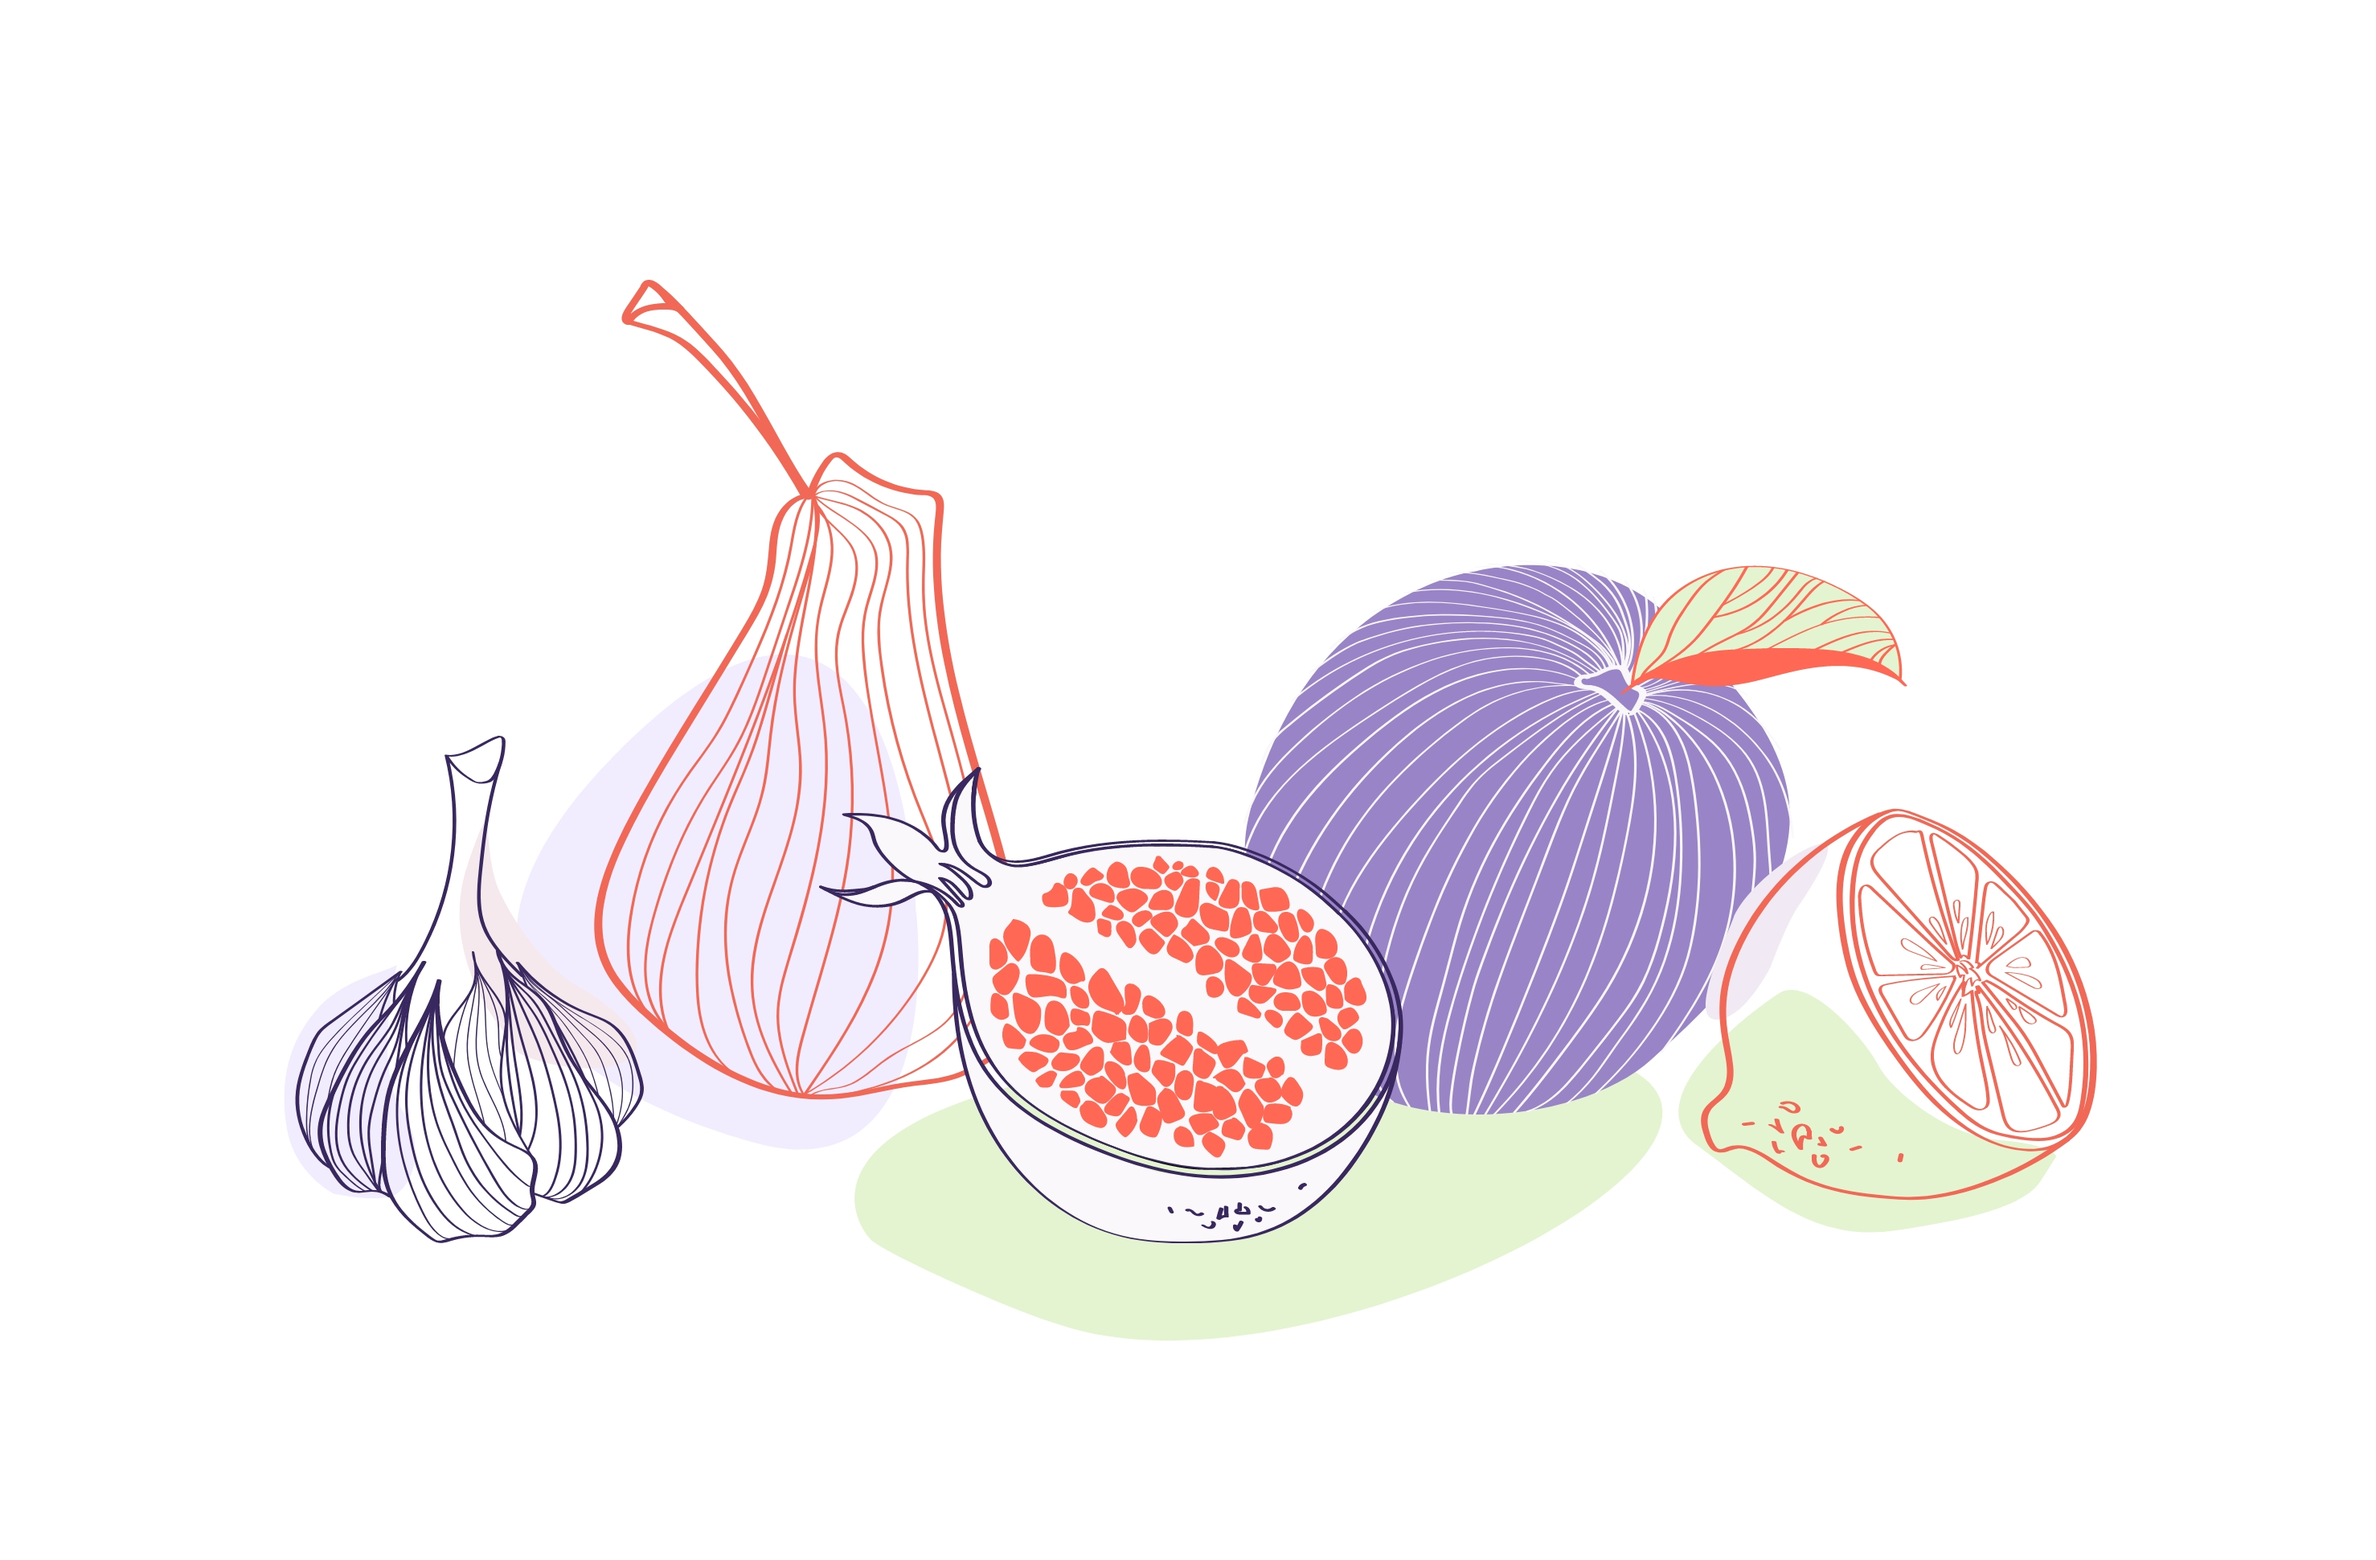
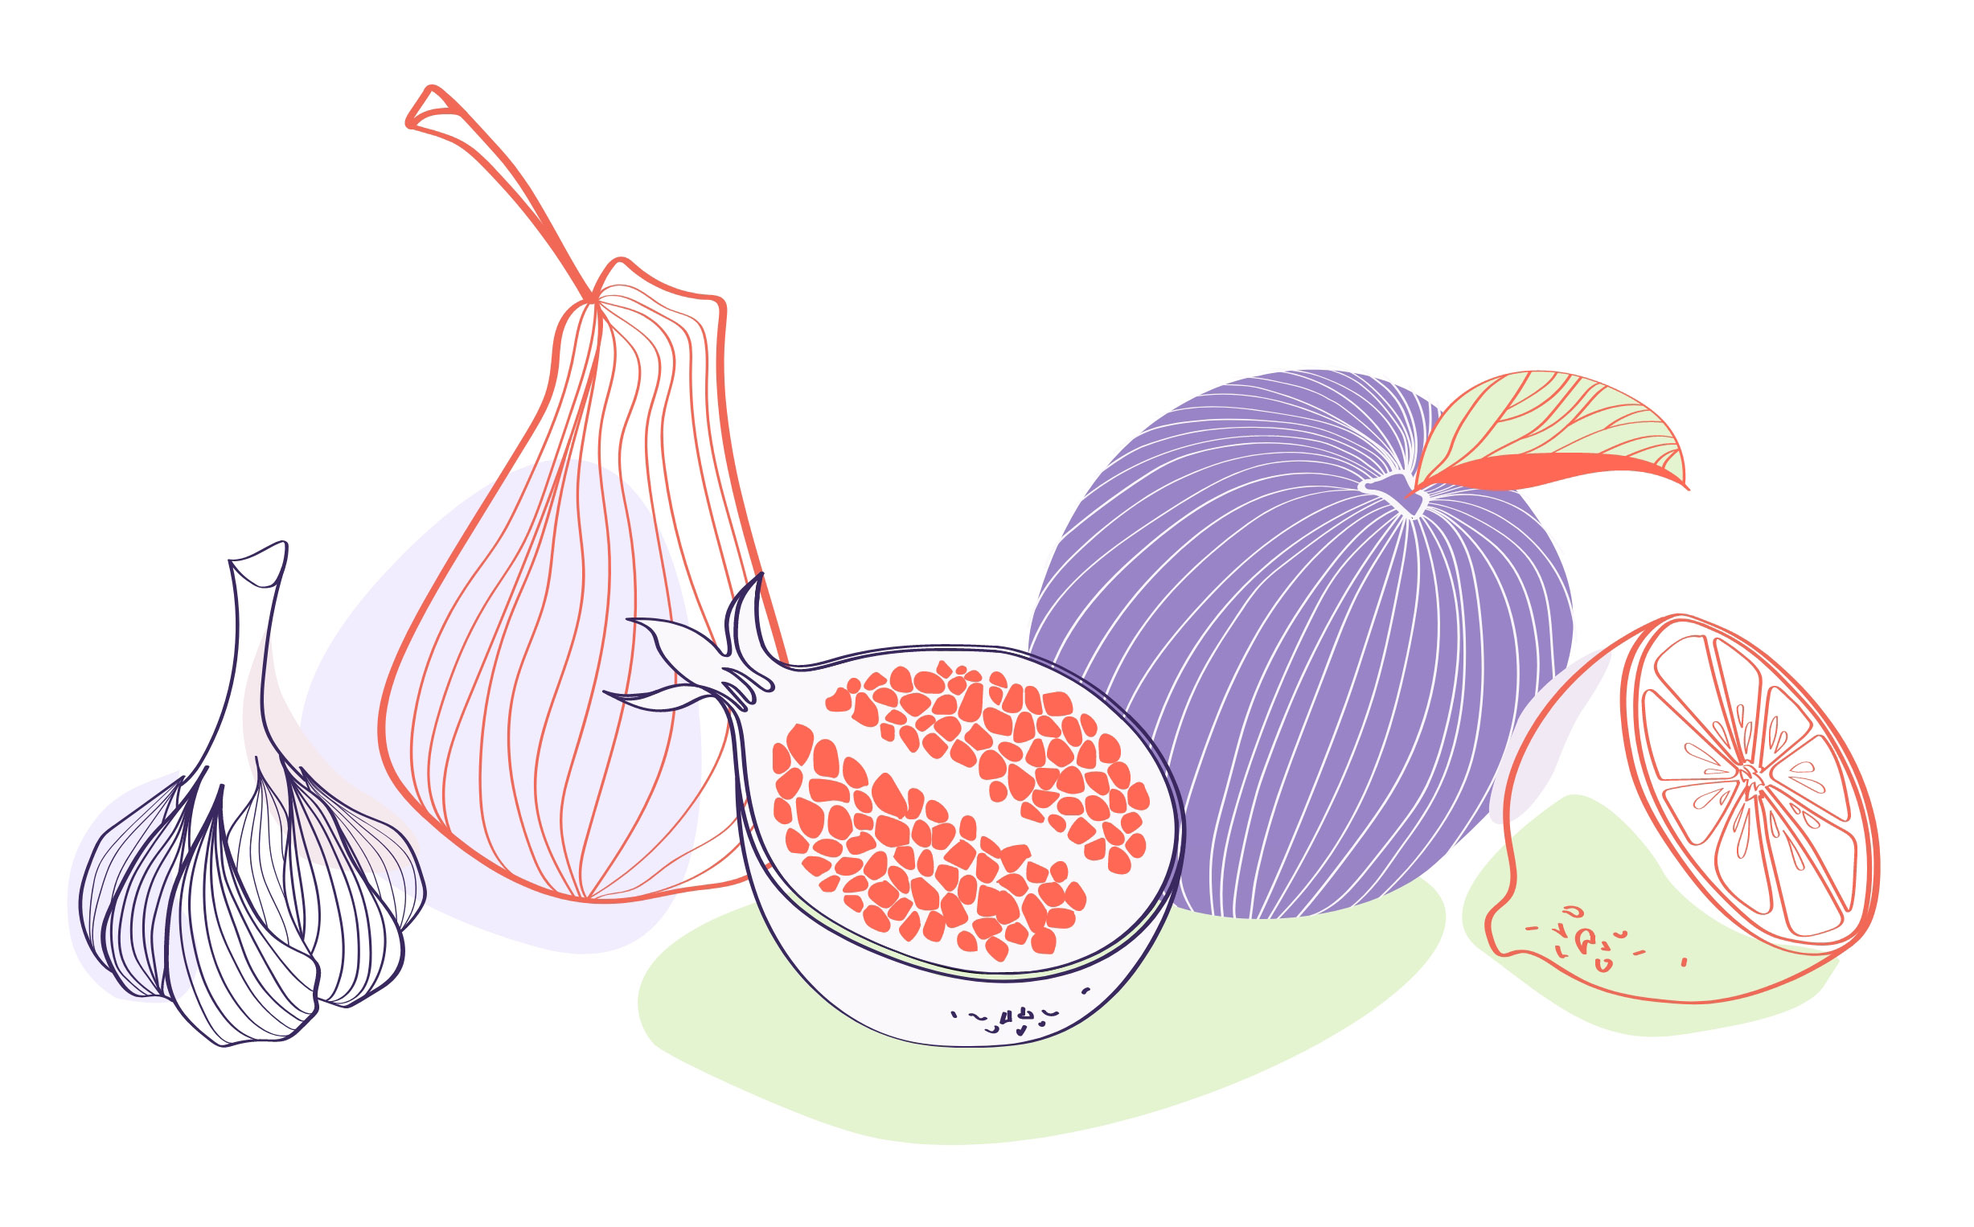
update illustrations

Changed region(s): [[0.031, 0.1232, 0.9597, 0.9548], [0.1857, 0.0616, 0.2477, 0.1232], [0.1238, 0.4312, 0.1548, 0.4928]]

diff --git a/index.html b/index.html
@@ -120,30 +120,23 @@
           </div>
         </div>
         <div class="mix col-12 col-md-10 offset-md-1 illustration">
-          <div class="card-columns gallery gallery-no-hover" itemscope="" itemtype="http://schema.org/ImageGallery">
+          <div class="card-columns two-column gallery gallery-no-hover" itemscope="" itemtype="http://schema.org/ImageGallery">
            
-            <div class="card">
-              <figure itemprop="associatedMedia" data-index="0" itemscope="" itemtype="http://schema.org/ImageObject">
-                <a href="img/portfolio/illiustrations/group-2.jpg" data-size="1914x1412" itemprop="contentUrl">
-                  <img class="card-img img-fluid clip-image-thumbnail" src="img/portfolio/illiustrations/group-2.jpg"
-                    itemprop="thumbnail" alt="Image description">
-                </a>
-              </figure>
-              <!-- <img class="card-img img-fluid" src="img/portfolio/illiustrations/jungle.jpg" alt="Card image"> -->
-            </div>
+            
           
             <div class="card">
-              <figure itemprop="associatedMedia" data-index="1" itemscope="" itemtype="http://schema.org/ImageObject">
-                <a href="img/portfolio/illiustrations/group-3.jpg" data-size="2956x1940" itemprop="contentUrl">
-                  <img class="card-img img-fluid clip-image-thumbnail" src="img/portfolio/illiustrations/group-3.jpg"
+              <figure itemprop="associatedMedia" data-index="0" itemscope="" itemtype="http://schema.org/ImageObject">
+                <a href="img/portfolio/illiustrations/illustration_1.jpg" data-size="1680x1295" itemprop="contentUrl">
+                  <img class="card-img img-fluid clip-image-thumbnail" src="img/portfolio/illiustrations/illustration_1.jpg"
                     itemprop="thumbnail" alt="Image description">
                 </a>
               </figure>
-              <!-- <img class="card-img img-fluid" src="img/portfolio/illiustrations/jungle.jpg" alt="Card image"> -->
+              <!-- <img class="card-img img-fluid" src="img/portfolio/trebo/Group 326.svg" alt="Card image"> -->
             </div>
 
+
             <div class="card">
-              <figure itemprop="associatedMedia" data-index="2" itemscope="" itemtype="http://schema.org/ImageObject">
+              <figure itemprop="associatedMedia" data-index="1" itemscope="" itemtype="http://schema.org/ImageObject">
                 <a href="img/portfolio/illiustrations/iliustracijos knygoj2.jpg" data-size="4847x3534" itemprop="contentUrl">
                   <img class="card-img img-fluid clip-image-thumbnail" src="img/portfolio/illiustrations/iliustracijos knygoj2.jpg"
                     itemprop="thumbnail" alt="Image description">
@@ -151,51 +144,7 @@
               </figure>
             </div>
             <div class="card">
-              <figure itemprop="associatedMedia" data-index="3" itemscope="" itemtype="http://schema.org/ImageObject">
-                <a href="img/portfolio/illiustrations/IMG_0279.JPG" data-size="937x1248" itemprop="contentUrl">
-                  <img class="card-img img-fluid clip-image-thumbnail" src="img/portfolio/illiustrations/IMG_0279.JPG"
-                    itemprop="thumbnail" alt="Image description">
-                </a>
-              </figure>
-            </div>
-            <div class="card">
-              <figure itemprop="associatedMedia" data-index="4" itemscope="" itemtype="http://schema.org/ImageObject">
-                <a href="img/portfolio/illiustrations/jungle.jpg" data-size="1126x1126" itemprop="contentUrl">
-                  <img class="card-img img-fluid clip-image-thumbnail" src="img/portfolio/illiustrations/jungle.jpg"
-                    itemprop="thumbnail" alt="Image description">
-                </a>
-              </figure>
-              <!-- <img class="card-img img-fluid" src="img/portfolio/illiustrations/jungle.jpg" alt="Card image"> -->
-            </div>
-            <div class="card">
-              <figure itemprop="associatedMedia" data-index="5" itemscope="" itemtype="http://schema.org/ImageObject">
-                <a href="img/portfolio/illiustrations/leaves.jpg" data-size="2480x2480" itemprop="contentUrl">
-                  <img class="card-img img-fluid clip-image-thumbnail" src="img/portfolio/illiustrations/leaves.jpg"
-                    itemprop="thumbnail" alt="Image description">
-                </a>
-              </figure>
-              <!-- <img class="card-img img-fluid" src="img/portfolio/illiustrations/leaves.jpg" alt="Card image"> -->
-            </div>
-            <div class="card">
-              <figure itemprop="associatedMedia" data-index="6" itemscope="" itemtype="http://schema.org/ImageObject">
-                <a href="img/portfolio/illiustrations/beachday.jpg" data-size="1380x955" itemprop="contentUrl">
-                  <img class="card-img img-fluid clip-image-thumbnail" src="img/portfolio/illiustrations/beachday.jpg"
-                    itemprop="thumbnail" alt="Image description">
-                </a>
-              </figure>
-              <!-- <img class="card-img img-fluid" src="img/portfolio/illiustrations/beachday.jpg" alt="Card image"> -->
-            </div>
-            <div class="card">
-              <figure itemprop="associatedMedia" data-index="7" itemscope="" itemtype="http://schema.org/ImageObject">
-                <a href="img/portfolio/illiustrations/Group-5.jpg" data-size="2190x1297" itemprop="contentUrl">
-                  <img class="card-img img-fluid clip-image-thumbnail" src="img/portfolio/illiustrations/Group-5.jpg"
-                    itemprop="thumbnail" alt="Image description">
-                </a>
-              </figure>
-              <!-- <img class="card-img img-fluid" src="img/portfolio/illiustrations/jungle.jpg" alt="Card image"> -->
-            </div>
-            <div class="card">
-              <figure itemprop="associatedMedia" data-index="8" itemscope="" itemtype="http://schema.org/ImageObject">
+              <figure itemprop="associatedMedia" data-index="2" itemscope="" itemtype="http://schema.org/ImageObject">
                 <a href="img/portfolio/illiustrations/IMG_0081.jpg" data-size="1772x1949" itemprop="contentUrl">
                   <img class="card-img img-fluid clip-image-thumbnail" src="img/portfolio/illiustrations/IMG_0081.jpg"
                     itemprop="thumbnail" alt="Image description">
@@ -204,16 +153,83 @@
               <!-- <img class="card-img img-fluid" src="img/portfolio/illiustrations/IMG_0081.jpg" alt="Card image"> -->
             </div>
             <div class="card">
-              <figure itemprop="associatedMedia" data-index="9" itemscope="" itemtype="http://schema.org/ImageObject">
-                <a href="img/portfolio/illiustrations/illustration_1.jpg" data-size="1680x1295" itemprop="contentUrl">
-                  <img class="card-img img-fluid clip-image-thumbnail" src="img/portfolio/illiustrations/illustration_1.jpg"
+              <figure itemprop="associatedMedia" data-index="3" itemscope="" itemtype="http://schema.org/ImageObject">
+                <a href="img/portfolio/illiustrations/butterfly.jpg" data-size="3222x3222" itemprop="contentUrl">
+                  <img class="card-img img-fluid clip-image-thumbnail" src="img/portfolio/illiustrations/butterfly.jpg"
                     itemprop="thumbnail" alt="Image description">
                 </a>
               </figure>
-              <!-- <img class="card-img img-fluid" src="img/portfolio/trebo/Group 326.svg" alt="Card image"> -->
+              <!-- <img class="card-img img-fluid" src="img/portfolio/illiustrations/butterfly.jpg" alt="Card image"> -->
             </div>
             <div class="card">
+              <figure itemprop="associatedMedia" data-index="4" itemscope="" itemtype="http://schema.org/ImageObject">
+                <a href="img/portfolio/illiustrations/IMG_0279.JPG" data-size="937x1248" itemprop="contentUrl">
+                  <img class="card-img img-fluid clip-image-thumbnail" src="img/portfolio/illiustrations/IMG_0279.JPG"
+                    itemprop="thumbnail" alt="Image description">
+                </a>
+              </figure>
+            </div>
+            <div class="card">
+              <figure itemprop="associatedMedia" data-index="5" itemscope="" itemtype="http://schema.org/ImageObject">
+                <a href="img/portfolio/illiustrations/jungle.jpg" data-size="1126x1126" itemprop="contentUrl">
+                  <img class="card-img img-fluid clip-image-thumbnail" src="img/portfolio/illiustrations/jungle.jpg"
+                    itemprop="thumbnail" alt="Image description">
+                </a>
+              </figure>
+              <!-- <img class="card-img img-fluid" src="img/portfolio/illiustrations/jungle.jpg" alt="Card image"> -->
+            </div>
+            <div class="card">
+              <figure itemprop="associatedMedia" data-index="6" itemscope="" itemtype="http://schema.org/ImageObject">
+                <a href="img/portfolio/illiustrations/group-3.jpg" data-size="2455x1526" itemprop="contentUrl">
+                  <img class="card-img img-fluid clip-image-thumbnail" src="img/portfolio/illiustrations/group-3.jpg"
+                    itemprop="thumbnail" alt="Image description">
+                </a>
+              </figure>
+              <!-- <img class="card-img img-fluid" src="img/portfolio/illiustrations/jungle.jpg" alt="Card image"> -->
+            </div>
+            <div class="card">
+              <figure itemprop="associatedMedia" data-index="7" itemscope="" itemtype="http://schema.org/ImageObject">
+                <a href="img/portfolio/illiustrations/leaves.jpg" data-size="2480x2480" itemprop="contentUrl">
+                  <img class="card-img img-fluid clip-image-thumbnail" src="img/portfolio/illiustrations/leaves.jpg"
+                    itemprop="thumbnail" alt="Image description">
+                </a>
+              </figure>
+              <!-- <img class="card-img img-fluid" src="img/portfolio/illiustrations/leaves.jpg" alt="Card image"> -->
+            </div>
+            <div class="card">
+              <figure itemprop="associatedMedia" data-index="8" itemscope="" itemtype="http://schema.org/ImageObject">
+                <a href="img/portfolio/illiustrations/group-2.jpg" data-size="1914x1412" itemprop="contentUrl">
+                  <img class="card-img img-fluid clip-image-thumbnail" src="img/portfolio/illiustrations/group-2.jpg"
+                    itemprop="thumbnail" alt="Image description">
+                </a>
+              </figure>
+              <!-- <img class="card-img img-fluid" src="img/portfolio/illiustrations/jungle.jpg" alt="Card image"> -->
+            </div>
+            <div class="card">
+              <figure itemprop="associatedMedia" data-index="9" itemscope="" itemtype="http://schema.org/ImageObject">
+                <a href="img/portfolio/illiustrations/beachday.jpg" data-size="1380x955" itemprop="contentUrl">
+                  <img class="card-img img-fluid clip-image-thumbnail" src="img/portfolio/illiustrations/beachday.jpg"
+                    itemprop="thumbnail" alt="Image description">
+                </a>
+              </figure>
+              <!-- <img class="card-img img-fluid" src="img/portfolio/illiustrations/beachday.jpg" alt="Card image"> -->
+            </div>
+          
+            
+           
+            <div class="card">
               <figure itemprop="associatedMedia" data-index="10" itemscope="" itemtype="http://schema.org/ImageObject">
+                <a href="img/portfolio/illiustrations/black2.jpg" data-size="1000x1414" itemprop="contentUrl">
+                  <img class="card-img img-fluid clip-image-thumbnail" src="img/portfolio/illiustrations/black2.jpg"
+                    itemprop="thumbnail" alt="Image description">
+                </a>
+              </figure>
+              <!-- <img class="card-img img-fluid" src="img/portfolio/illiustrations/black2.jpg" alt="Card image"> -->
+            </div>
+
+
+            <div class="card">
+              <figure itemprop="associatedMedia" data-index="11" itemscope="" itemtype="http://schema.org/ImageObject">
                 <a href="img/portfolio/illiustrations/Illustration_2.jpg" data-size="2097x871"
                   itemprop="contentUrl">
                   <img class="card-img img-fluid clip-image-thumbnail"
@@ -223,32 +239,24 @@
               </figure>
               <!-- <img class="card-img img-fluid" src="img/portfolio/trebo/trebo_iliustracija [Recovered]-03.svg" alt="Card image"> -->
             </div>
-            <div class="card">
-              <figure itemprop="associatedMedia" data-index="11" itemscope="" itemtype="http://schema.org/ImageObject">
-                <a href="img/portfolio/illiustrations/black2.jpg" data-size="1000x1414" itemprop="contentUrl">
-                  <img class="card-img img-fluid clip-image-thumbnail" src="img/portfolio/illiustrations/black2.jpg"
-                    itemprop="thumbnail" alt="Image description">
-                </a>
-              </figure>
-              <!-- <img class="card-img img-fluid" src="img/portfolio/illiustrations/black2.jpg" alt="Card image"> -->
-            </div>
+
             <div class="card">
               <figure itemprop="associatedMedia" data-index="12" itemscope="" itemtype="http://schema.org/ImageObject">
-                <a href="img/portfolio/illiustrations/butterfly.jpg" data-size="3222x3222" itemprop="contentUrl">
-                  <img class="card-img img-fluid clip-image-thumbnail" src="img/portfolio/illiustrations/butterfly.jpg"
-                    itemprop="thumbnail" alt="Image description">
-                </a>
-              </figure>
-              <!-- <img class="card-img img-fluid" src="img/portfolio/illiustrations/butterfly.jpg" alt="Card image"> -->
-            </div>
-            <div class="card">
-              <figure itemprop="associatedMedia" data-index="13" itemscope="" itemtype="http://schema.org/ImageObject">
                 <a href="img/portfolio/illiustrations/curlyman.jpg" data-size="1000x1424" itemprop="contentUrl">
                   <img class="card-img img-fluid clip-image-thumbnail" src="img/portfolio/illiustrations/curlyman.jpg"
                     itemprop="thumbnail" alt="Image description">
                 </a>
               </figure>
               <!-- <img class="card-img img-fluid" src="img/portfolio/illiustrations/curlyman.jpg" alt="Card image"> -->
+            </div>
+            <div class="card">
+              <figure itemprop="associatedMedia" data-index="13" itemscope="" itemtype="http://schema.org/ImageObject">
+                <a href="img/portfolio/illiustrations/Group-5.jpg" data-size="2190x1297" itemprop="contentUrl">
+                  <img class="card-img img-fluid clip-image-thumbnail" src="img/portfolio/illiustrations/Group-5.jpg"
+                    itemprop="thumbnail" alt="Image description">
+                </a>
+              </figure>
+              <!-- <img class="card-img img-fluid" src="img/portfolio/illiustrations/jungle.jpg" alt="Card image"> -->
             </div>
             <div class="card">
               <figure itemprop="associatedMedia" data-index="14" itemscope="" itemtype="http://schema.org/ImageObject">

diff --git a/css/custom-styles.css b/css/custom-styles.css
@@ -140,3 +140,11 @@ box-shadow: 0px 1px 5px #00000029;
   height: 100%;
   width: 100%;
 }
+
+@media (min-width: 576px){
+  .two-column{
+    -webkit-column-count: 2;
+    -moz-column-count: 2;
+    column-count: 2;
+  }
+}
